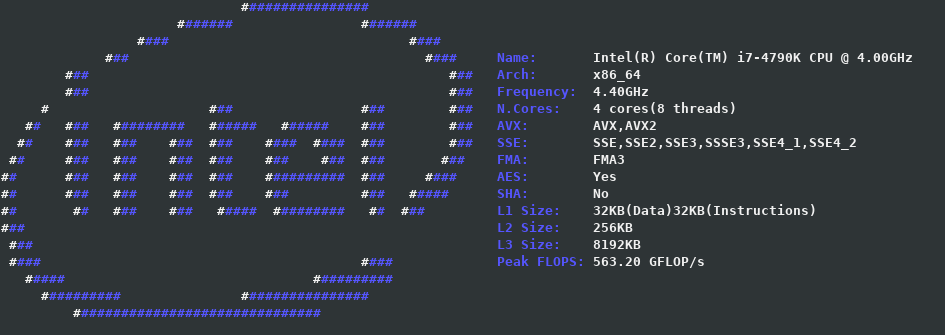
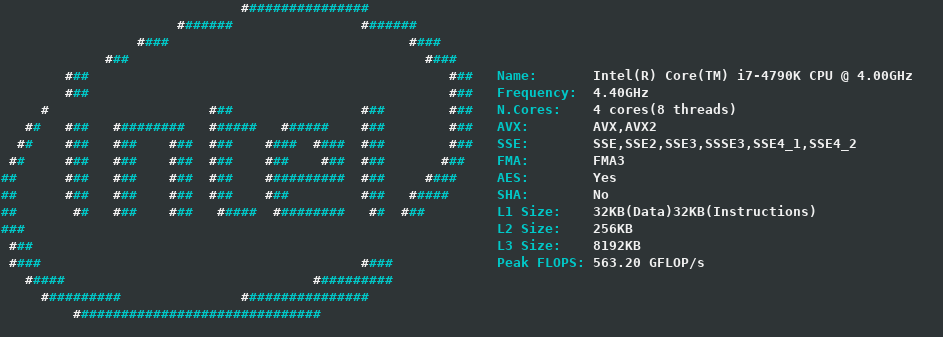
Update information to not showing cpu arch and new colors

diff --git a/README.md b/README.md
@@ -3,7 +3,7 @@
 Prints a fancy summary of the CPU with some advanced information
 
 ### Platforms
-This tool works on both 64 bits and 32 bits, but it's __Linux only__ because of its [implementation details](#implementation). AMD support is not guaranteed so information may not be correct
+This tool works on both 64 only and under Linux because of its [implementation details](#implementation). AMD support is not guaranteed so information may not be correct
 
 ### Usage and installation
 
@@ -29,7 +29,6 @@ Output is detailed as follows:
 | Field      | Description             | Possible Values  |
 |:----------:|:-----------------------:|:-----------------:|
 | Name       | Name of the CPU   | Any valid CPU name |
-| Arch       |Architecture of the CPU(64 or 32 bits) | x86_64 or x86 |
 | Frequency  | Max frequency of the CPU(in GHz) | X.XX(GHz or MHz)
 | N.Cores    | Number of cores the CPU has. If CPU supports `Hyperthreading` or similar, this will show cores and threads separately | X(cores)X(threads)
 | AVX        | Type of AVX supported by the CPU or None. AVX instructions allows the CPU to vectorize the code with a witdh of 256 bits in single precision(or 512bits if AVX512 is supported) | AVX,AVX2,AVX512,None
